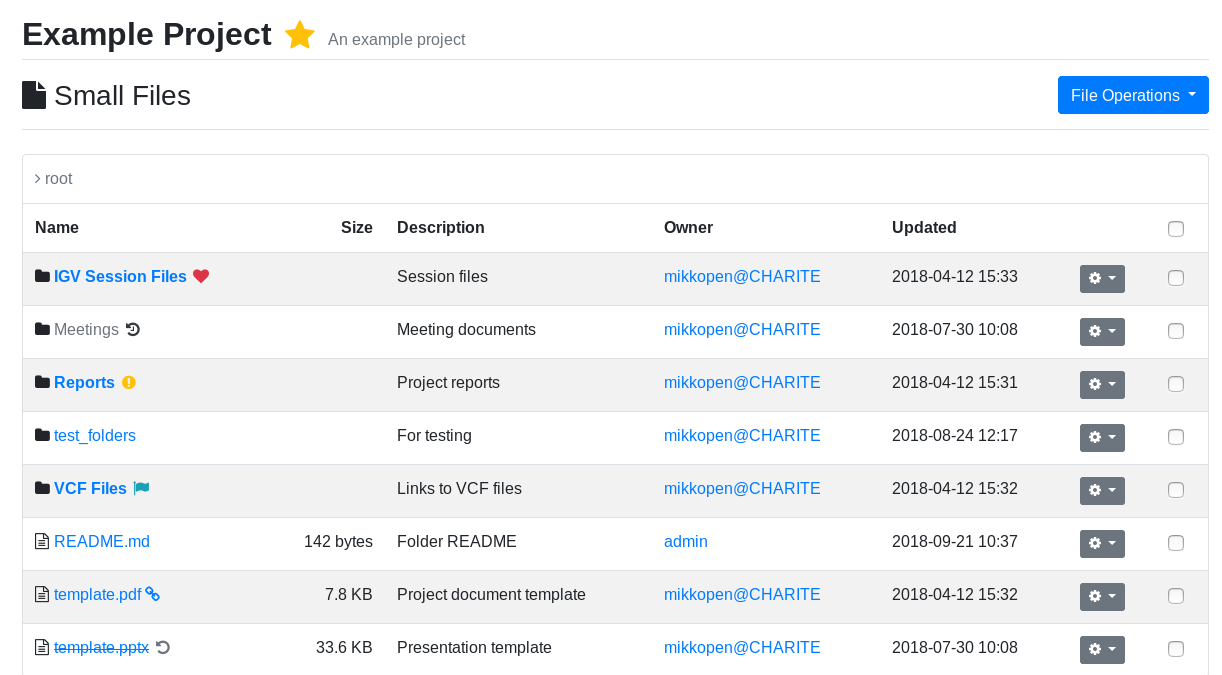
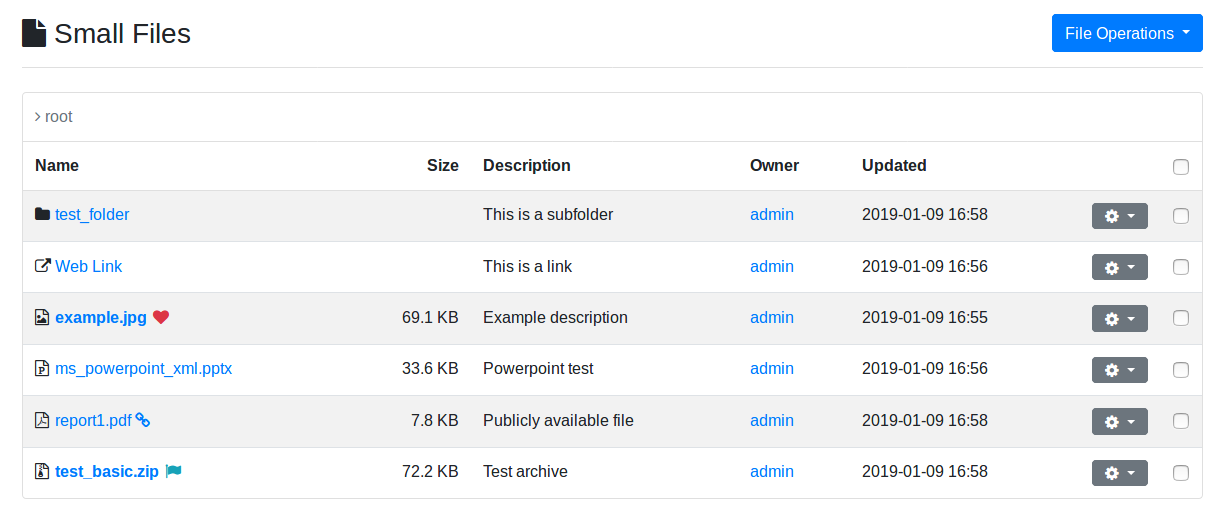
update screenshots in docs, cleanup docs

diff --git a/docs/source/app_projectroles_settings.rst b/docs/source/app_projectroles_settings.rst
@@ -343,12 +343,6 @@ This part of the setup is **optional**.
                 ('projectroles.auth_backends.SecondaryLDAPBackend',),
                 AUTHENTICATION_BACKENDS,))
 
-Logging (Optional)
-==================
-
-It is also recommended to add "projectroles" under ``LOGGING['loggers']``. For
-production, ``INFO`` debug level is recommended.
-
 
 Modifying SODAR_CONSTANTS (Optional)
 ====================================
@@ -376,3 +370,10 @@ the following snippet:
     Modifying existing default constants may result in unwanted issues,
     especially on a site which already contains created projects. Proceed with
     caution!
+
+
+Logging (Optional)
+==================
+
+It is recommended to add "projectroles" under ``LOGGING['loggers']``. For
+production, ``INFO`` debug level is recommended.

diff --git a/docs/source/app_projectroles_basics.rst b/docs/source/app_projectroles_basics.rst
@@ -52,8 +52,7 @@ projects:
 - Inviting people not yet using the site by email
 - Importing members from other projects (**NOTE:** disabled pending update)
 - Automated emailing of users regarding role changes
-- **TODO:** Mirroring user roles to/from an external projectroles-enabled site
-  (will be added in SODAR Core v0.3)
+- Mirroring user roles to/from an external projectroles-enabled site
 
 .. note::
     Currently, only superusers can assign owner roles for top-level categories.
@@ -129,8 +128,6 @@ Other features in the projectroles app:
 - **SODAR Taskflow and SODAR Timeline integration**: Included but disabled
   unless backend apps for Taskflow and Timeline are integrated in the Django
   site
-
-**TODO**: Describe these in :ref:`app_projectroles_usage`.
 
 
 Templates and Styles

diff --git a/docs/source/app_timeline_usage.rst b/docs/source/app_timeline_usage.rst
@@ -36,12 +36,8 @@ normal users.
 Backend API for Event Logging
 =============================
 
-The API for logging events is located in ``timeline.api``.
-
-.. hint::
-
-    For the best in-depth instructions on how to use the API, see the docstrings
-    in the API class code.
+The API for logging events is located in ``timeline.api``. For the full API
+documentation, see `here <app_timeline_api>`_.
 
 Invoking the API
 ----------------

diff --git a/docs/source/dev_sodar_core.rst b/docs/source/dev_sodar_core.rst
@@ -14,8 +14,6 @@ Core package.
 **NOTE:** When viewing this document in GitLab critical content will by default
 be missing. Please click "display source" if you want to read this in GitLab.
 
-**TODO:** Add alternate instructions if installing things under e.g. conda?
-
 
 Installation
 ============
